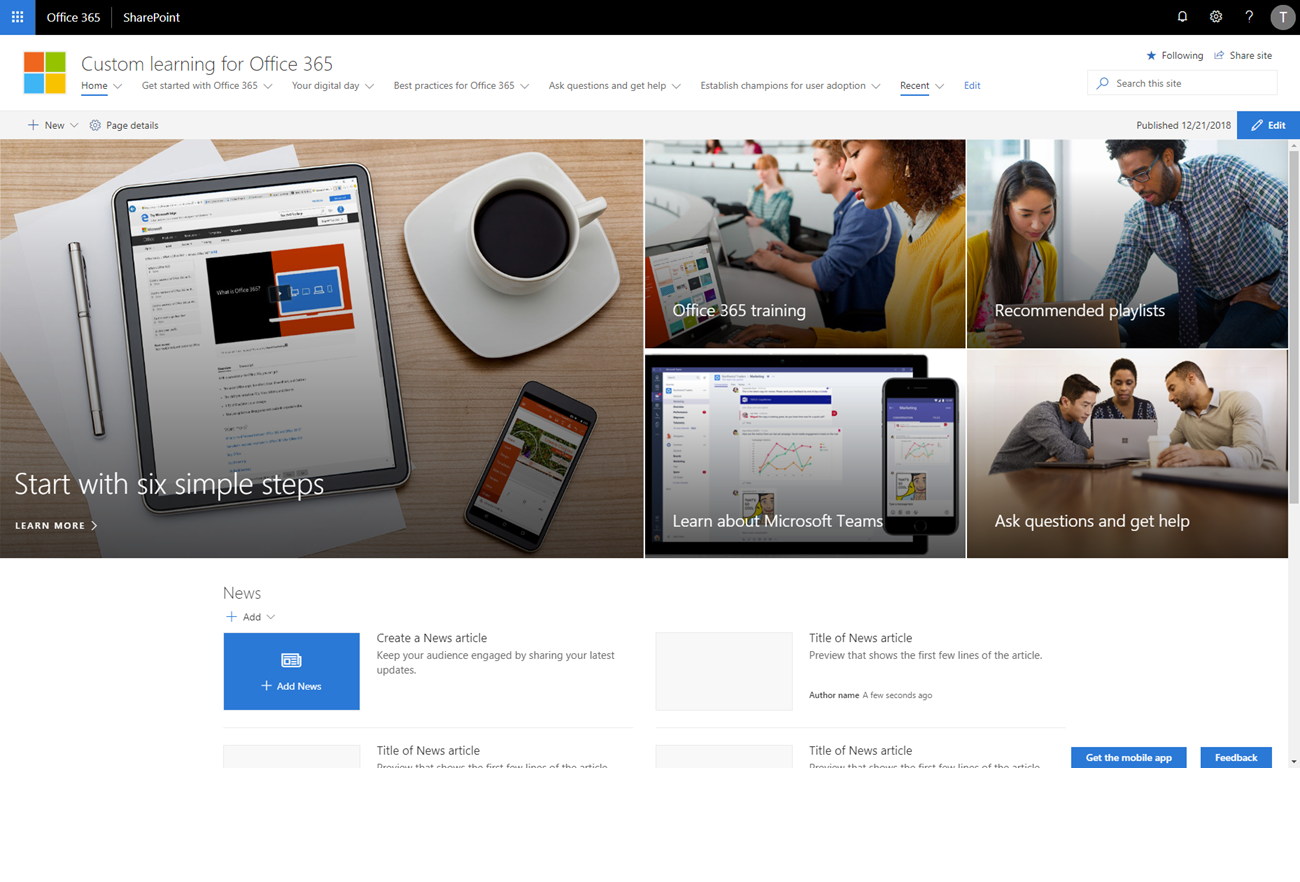
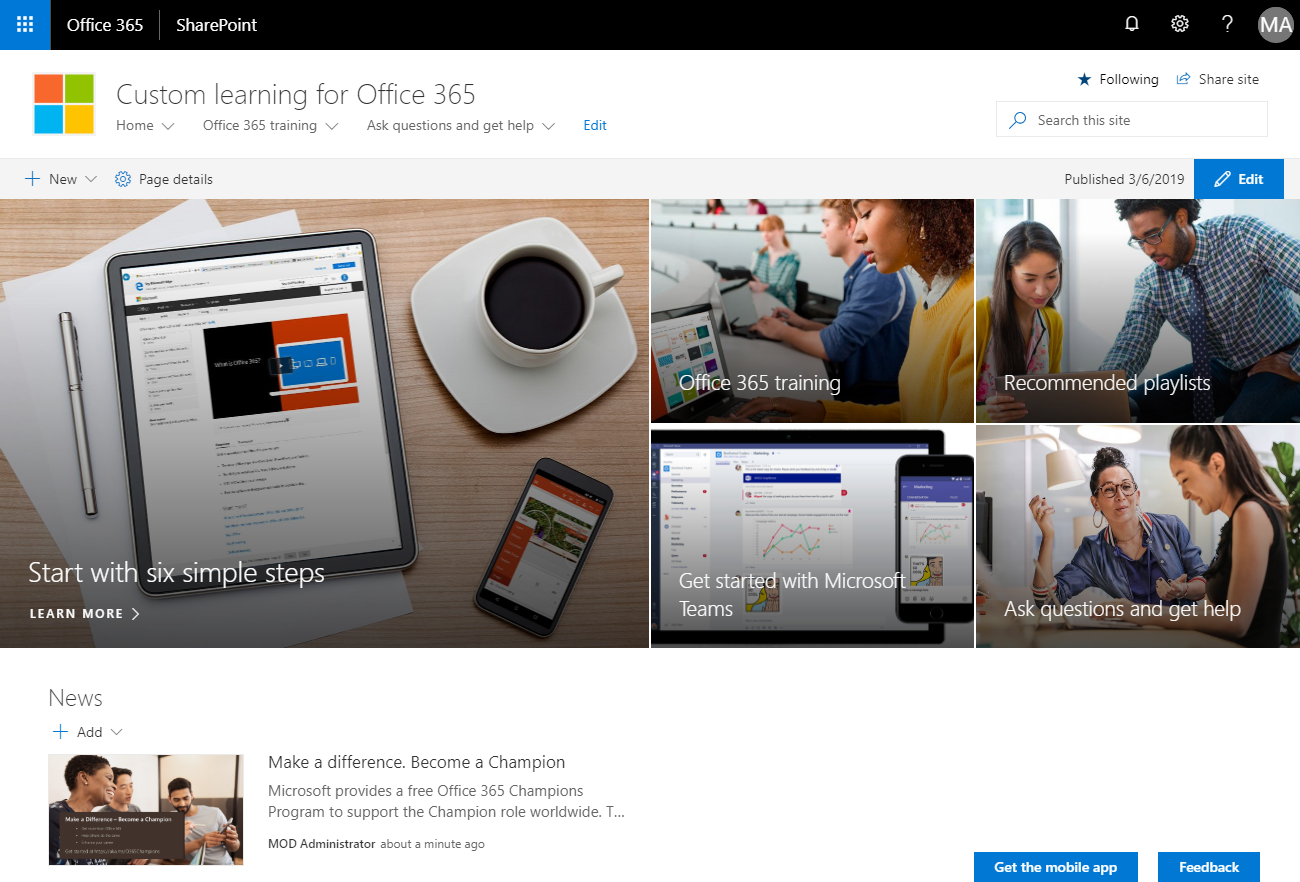
Fixing wordings and pic for o365 learning

diff --git a/system/pages/ServiceDescriptionLong.md b/system/pages/ServiceDescriptionLong.md
@@ -1,6 +1,6 @@
 # Service Description
 
-Welcome to the SharePoint PnP Provisioning Service, which can be used to provisioning demo sites with Microsoft provided provisioning templates. You can browse a catalog of templates and then apply those to any SharePoint Online tenant. This service is using PnP Tenant Templates, which are used to define what kind of customizations will be applied when the template is applied. 
+Welcome to the SharePoint PnP Provisioning Service, which can be used to provisioning demo sites with Microsoft provided provisioning templates. You can browse a catalog of templates and then apply those to any SharePoint Online tenant. This service is using PnP Tenant Templates, which are used to define what kind of customizations will be applied when the template is applied.
 
 These can be any of the following capabilities:
 
@@ -42,7 +42,7 @@ These templates were decided by SharePoint engineering together with the SharePo
 
 **Who has built this service?**
 
-Service has been designed by SharePoint engineering and it has been built by SharePoint engineering together with the SharePoint Patterns and Practices MVP team. 
+Service has been designed by SharePoint engineering and it has been built by SharePoint engineering together with the SharePoint Patterns and Practices MVP team.
 
 **Is the service code open-source?**
 
@@ -55,3 +55,11 @@ Please report any issues which you might have using the [sp-dev-docs issue list]
 **Are the templates only provisioning SharePoint assets?**
 
 Mainly yes. They can provision already Office 365 groups as those are created by default for the modern team sites. Starting from spring 2019, templates can also include other assets as the PnP Provisioning engine will start supporting for example Microsoft Team provisioning (Teams, channels, tabs) and other Office 365 assets based on the API support.
+
+**Is there away to use the templates without this service?**
+
+Yes. All templates which are visible in the service area available from [GitHub repository](https://github.com/SharePoint/sp-dev-docs/issues) which acts as the source location for the visible data. You can download the used templates and related assets directly from the GitHub and then use [PnP PowerShell](https://docs.microsoft.com/en-us/powershell/sharepoint/sharepoint-pnp/sharepoint-pnp-cmdlets) to use them also outside of this service.
+
+**Where can I find more details on the used PnP Tenant Templates?**
+
+Start by watching specific [PnP Webcast related on the PnP Tenant Templates](https://developer.microsoft.com/en-us/sharepoint/blogs/pnp-webcast-introduction-to-pnp-tenant-templates/).

diff --git a/system/pages/ProvisioningIntro.md b/system/pages/ProvisioningIntro.md
@@ -1,3 +1,3 @@
 # Provisioning
 
-Following options are the setting exposed from the selected template. You can override them, if needed, or use the default settings. You can also optionally define a custom theme to be automatically created as part of the provisioning. You can use the [Theme Generator](https://developer.microsoft.com/en-us/fabric#/styles/themegenerator) tool for getting the needed values. Notice that this custom theme will be created as a tenant level theme and then automatically applied on the site collections created using this tool.
+Following options are the setting exposed from the selected template. You can override them, if needed, or use the default settings. You can also optionally chose to use existing custom theme from your tenant. If you want site to use existing theme aligned with intended branding, we recommend that you first deploy the custom theme to the target tenant and then select it to be used in this UI. Alternatively you can control theme and other branding settings after the site has been provisioned.

diff --git a/tenant/O365Learning/instructions.md b/tenant/O365Learning/instructions.md
@@ -1,3 +1,3 @@
-# Special instructions
+## Usage data tracking
 
 Microsoft collects active usage data from your organization’s use of Custom Learning for Office 365. Microsoft will use this data to help improve the future Custom Learning for Office 365 solutions. To learn more about Microsoft privacy policies see https://go.microsoft.com/fwlink/?LinkId=521839. If you would like to opt out of this data collection, please execute the script TelemetryOptOut.ps1 once the installation is complete. 
